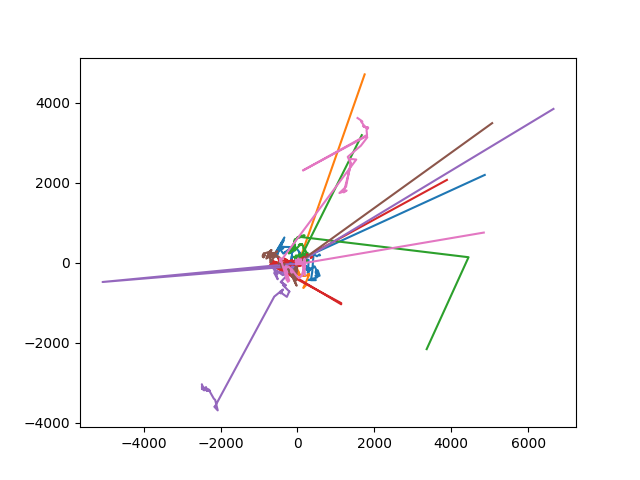
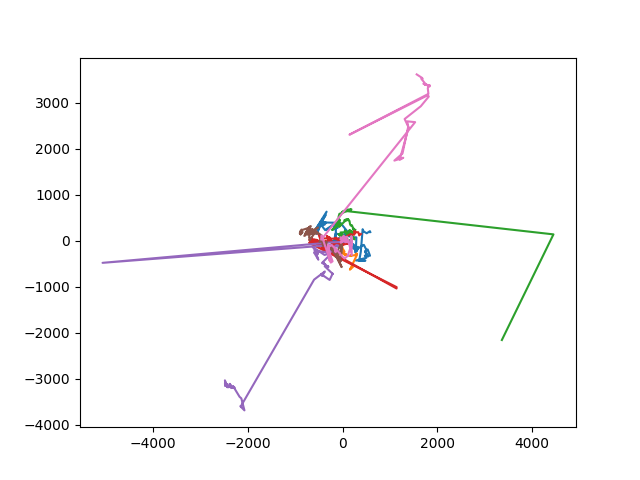
Checked github access

diff --git a/script.py b/script.py
@@ -77,17 +77,19 @@ def main():
     plt.plot([i for i in range(len(images))], areas)
     plt.savefig("areas.png")
 
-plt.clf()
-for j in range(7):
-    centers = []
-    for i in range(len(new_all_contours)):
-        contour = new_all_contours[i][j]
-        contour = contour.reshape((contour.shape[0], 2))
-        centers.append(sum(contour) / len(contour))
-        centers[i] -= centers[0]
-    data = np.array(centers)
-    plt.plot(data[:, 0], data[:, 1])
+    plt.clf()
+    for j in range(7):
+        centers = []
+        for i in range(len(new_all_contours)):
+            contour = new_all_contours[i][j]
+            contour = contour.reshape((contour.shape[0], 2))
+            centers.append(sum(contour) / len(contour))
+            if i == 0:
+                first_center = [centers[0][0], centers[0][1]]
+            centers[i] -= first_center
+        data = np.array(centers)
+        plt.plot(data[:, 0], data[:, 1])
 
-plt.savefig(f"centers_from_one_point.png")
-plt.draw()
-plt.show()
+    plt.savefig(f"centers_from_one_point.png")
+    plt.draw()
+    plt.show()
